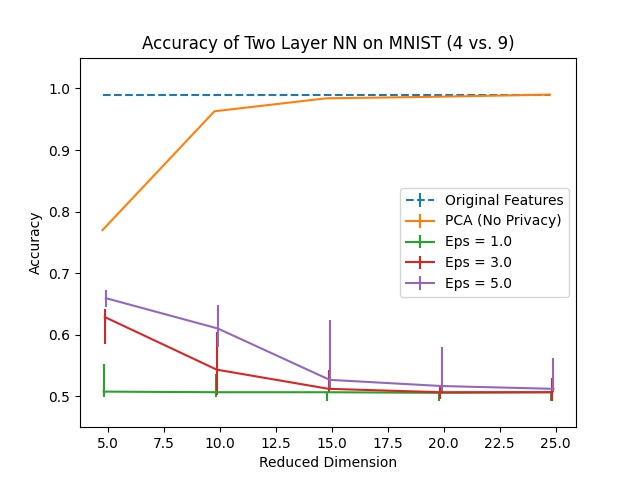
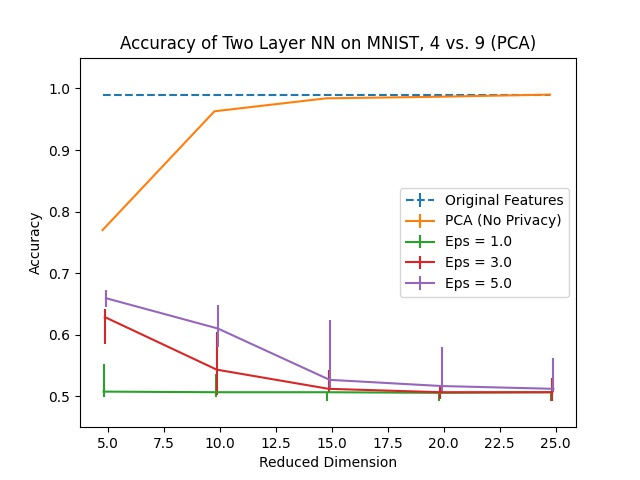
Set up experiments for joining PCA covtype67

Changed region(s): [[0.1875, 0.0625, 0.8438, 0.125]]

diff --git a/multi-dim-featcreation/Submission_Plots/Replot.py b/multi-dim-featcreation/Submission_Plots/Replot.py
@@ -2,26 +2,24 @@ import matplotlib.pyplot as plt
 import pandas as pd
 import numpy as np
 
-algs = ['AdaBoost']
+algs = ['LogisticRegression']
 num_trials = 25
 total_eps_list = [1.0, 2.0, 3.0, 4.0, 5.0]
 for alg in algs:
-	alg_df = pd.read_csv('covtype67_rffrealclip_%s_trials=%i.csv' % (alg.lower(), num_trials))
+	file = 'mnist49_pca_centeredclip_%s_trials=%i' % (alg.lower(), num_trials)
+	alg_df = pd.read_csv('%s.csv' % file)
 	alg_df = alg_df.set_index('Dimension')
 	print(alg_df)
 
-	file = 'covtype67_rffrealclip_%s_trials=%i' % (alg.lower(), num_trials)
-	alg_df.to_csv('%s.csv' % file)
 	shift = -0.25
-
 	# Edit!
 	plt.ylim((0.45, 1.05))
 	plt.errorbar(alg_df.index + shift, alg_df['Original Features'], \
 		yerr = np.zeros(shape = (2, len(alg_df))), label = 'Original Features', linestyle = 'dashed')
-	# plt.errorbar(alg_df.index + shift, alg_df['PCA'], \
-	# 	yerr = np.zeros(shape = (2, len(alg_df))), label = 'PCA (No Privacy)')
-	plt.errorbar(alg_df.index + shift, alg_df['RFF Real'], \
-		yerr = alg_df[['RFF Real 25', 'RFF Real 75']].to_numpy().T, label = 'Real RFFs (No Privacy)')
+	plt.errorbar(alg_df.index + shift, alg_df['PCA'], \
+		yerr = np.zeros(shape = (2, len(alg_df))), label = 'PCA (No Privacy)')
+	# plt.errorbar(alg_df.index + shift, alg_df['RFF Real'], \
+	# 	yerr = alg_df[['RFF Real 25', 'RFF Real 75']].to_numpy().T, label = 'Real RFFs (No Privacy)')
 	shift += 0.05
 	for total_eps in total_eps_list:
 		if total_eps == 2.0 or total_eps == 4.0:
@@ -32,7 +30,7 @@ for alg in algs:
 
 	plt.xlabel("Reduced Dimension")
 	plt.ylabel("Accuracy")
-	plt.title('Accuracy of AdaBoost on Forest Cover, 6 vs. 7 (RFF)')
-	plt.legend(loc = "lower left")
+	plt.title('Accuracy of Logistic Reg. on MNIST, 4 vs. 9 (PCA)')
+	plt.legend(loc = "upper right")
 	plt.savefig('%s.jpg' % file)
 	plt.close()

diff --git a/multi-dim-featcreation/covtype67_all_experiments/covtype67join_privatepca.py b/multi-dim-featcreation/covtype67_all_experiments/covtype67join_privatepca.py
@@ -170,11 +170,14 @@ if __name__ == "__main__":
 				priv_pca = priv_power_method(f_train, num_iters, dim, eps_pca)
 				f_train_priv = np.matmul(f_train, priv_pca)
 				f_test_priv = np.matmul(f_test, priv_pca)
+				mean_train = np.mean(f_train_priv, axis = 0, keepdims = True)
+				f_train_priv = f_train_priv - mean_train
 
 				sens_list = get_sens_list(f_train_priv)
 				f_train_priv = pd.DataFrame(data = f_train_priv, index = index_train, columns = ["Comp %i" % (i + 1) for i in range(dim)])
 				dp_join = DP_Join(eps_memb, eps_val, sens_list, 'Real')
 				dp_join.join(l_train, f_train_priv)
+				dp_join.features = dp_join.features + mean_train
 
 				for alg in algs:
 					trial_dict[alg].append(get_loss(dp_join.features, dp_join.labels, f_test_priv, l_test, alg))

diff --git a/multi-dim-featcreation/dp_sketch.py b/multi-dim-featcreation/dp_sketch.py
@@ -54,7 +54,7 @@ class DP_Join:
 			val = RealValued_Sketch(self.eps_val, self.sens_list, df_dp.index, self.num_buckets)
 			noise = val.get_noise(df_private.columns)
 
-			df_dp = df_dp.applymap(lambda x: x if not np.isnan(x) else 0)
+			df_dp = df_dp.applymap(lambda x: x if not np.isnan(x) else 0.0)
 			self.features = df_dp[df_private.columns].to_numpy() + noise
 
 			if data_type == 'Real Clip':
